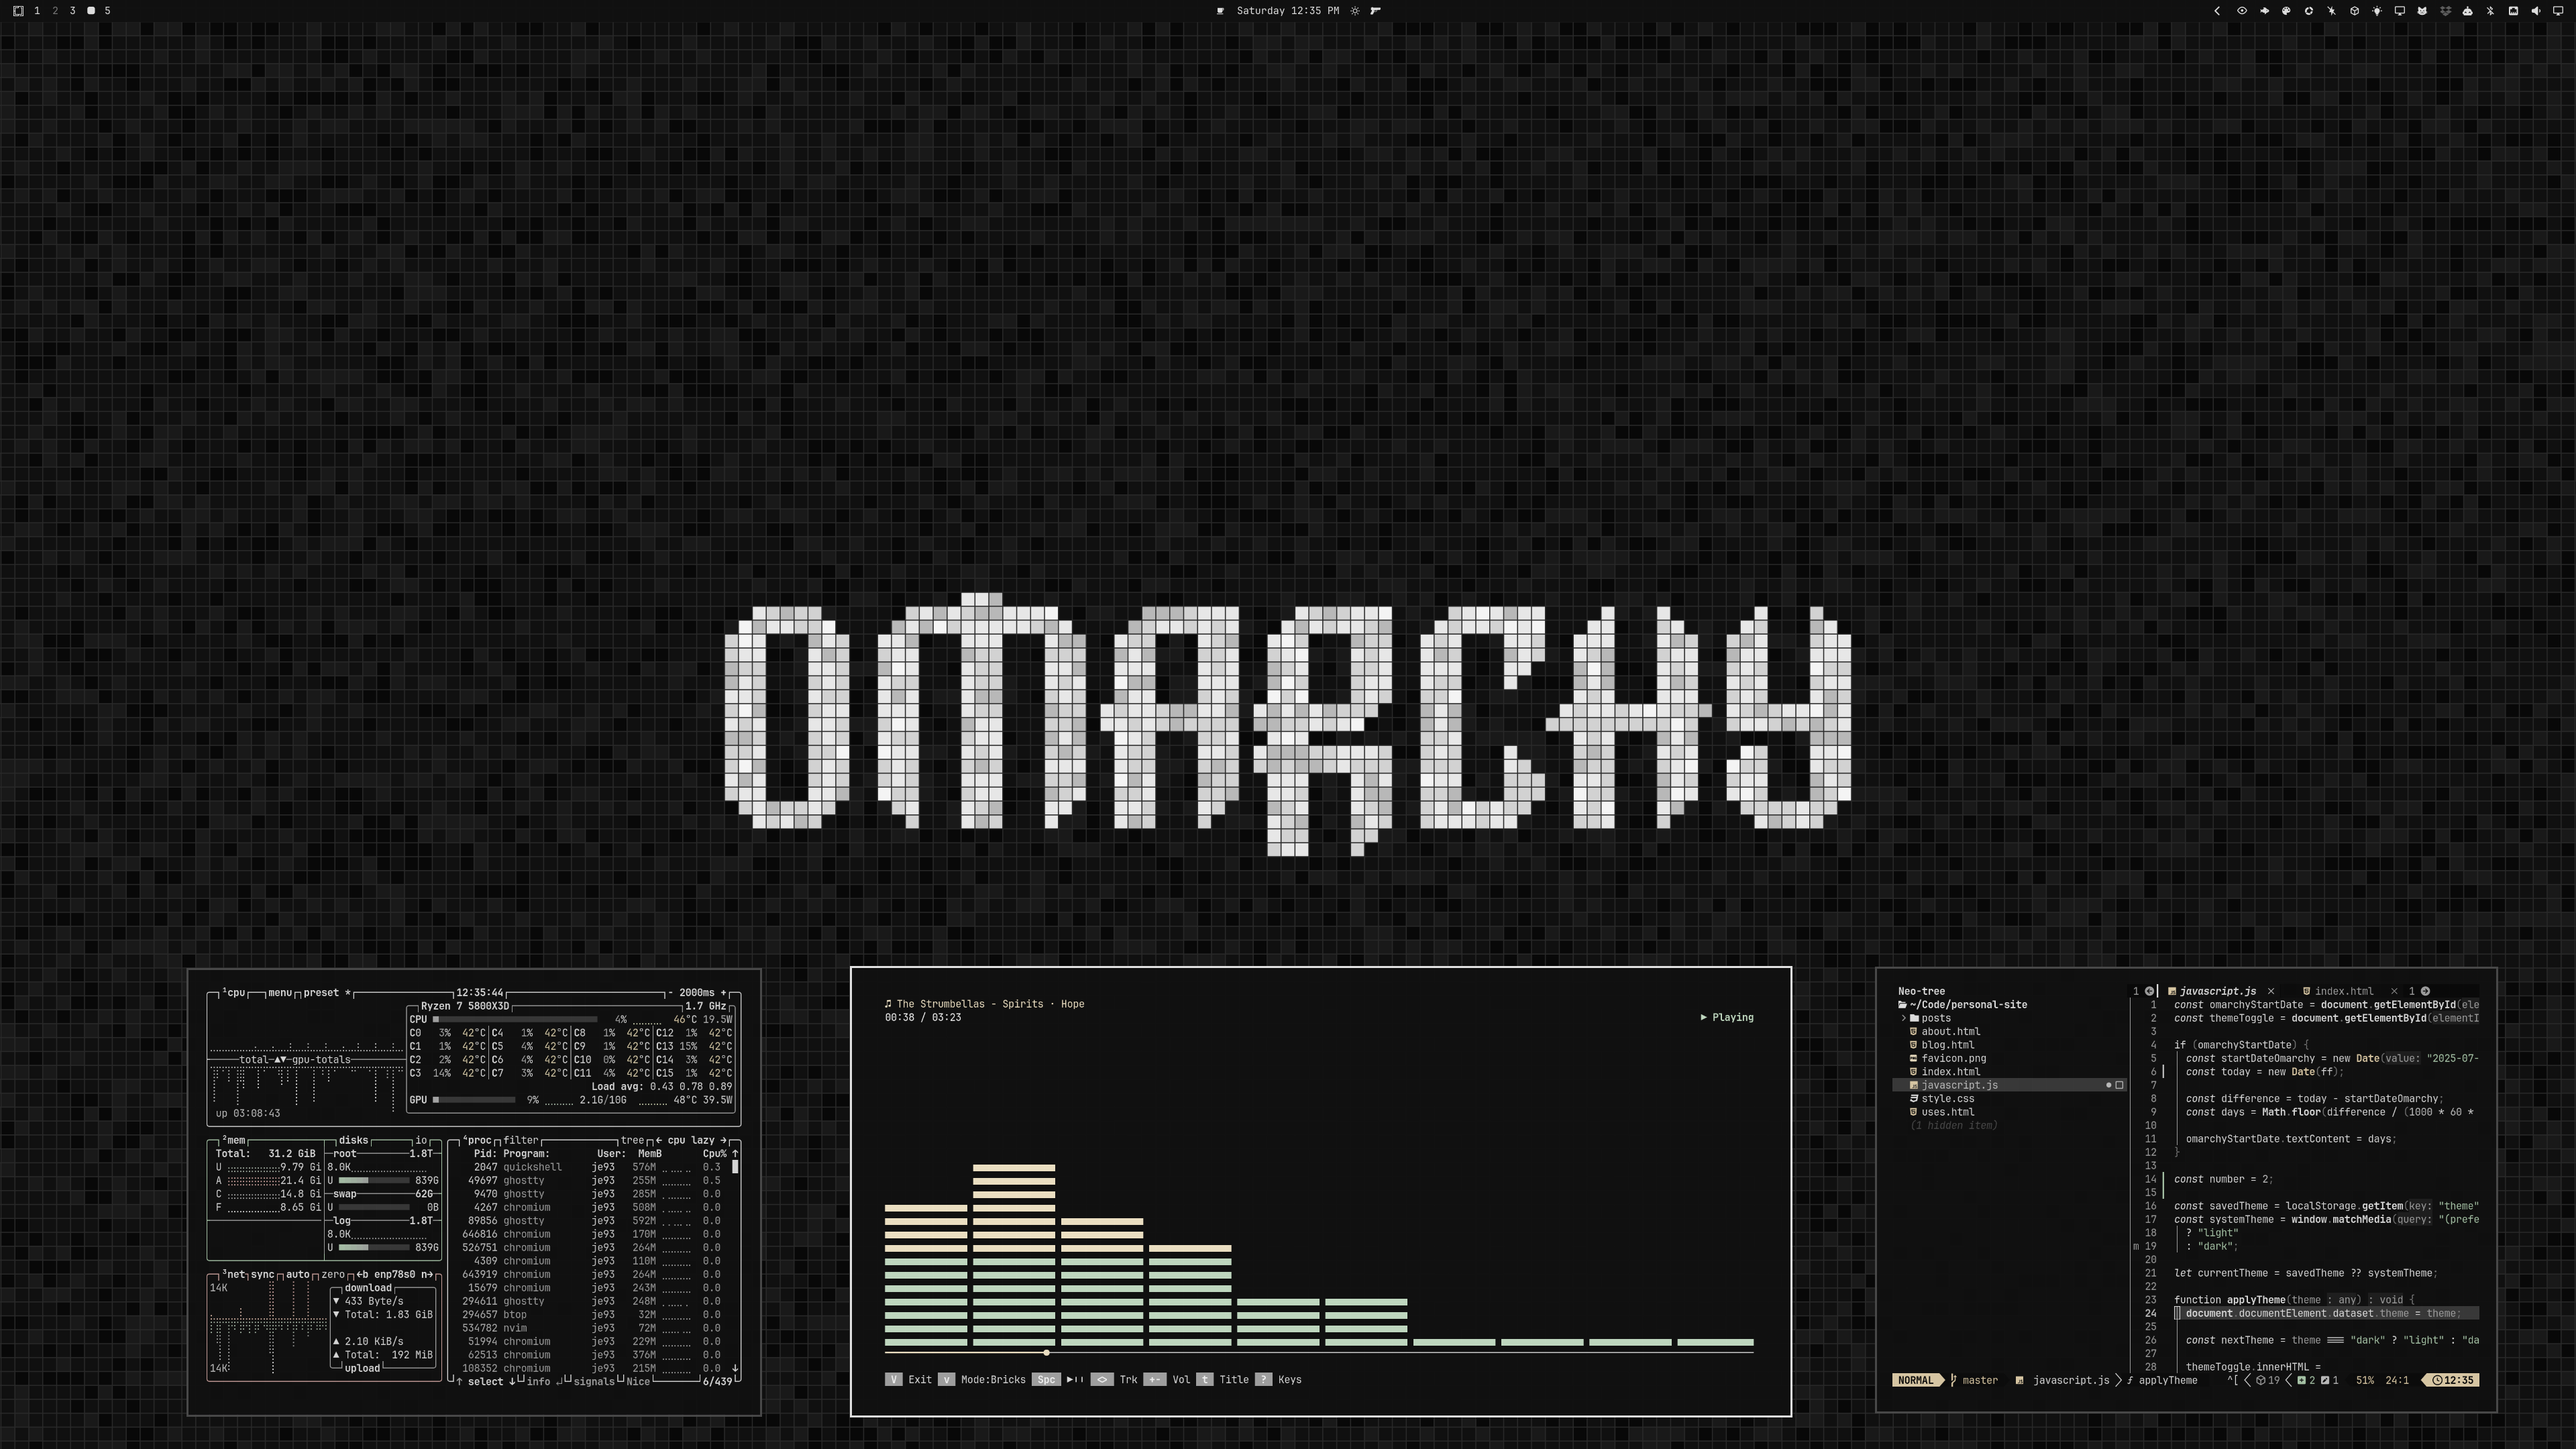
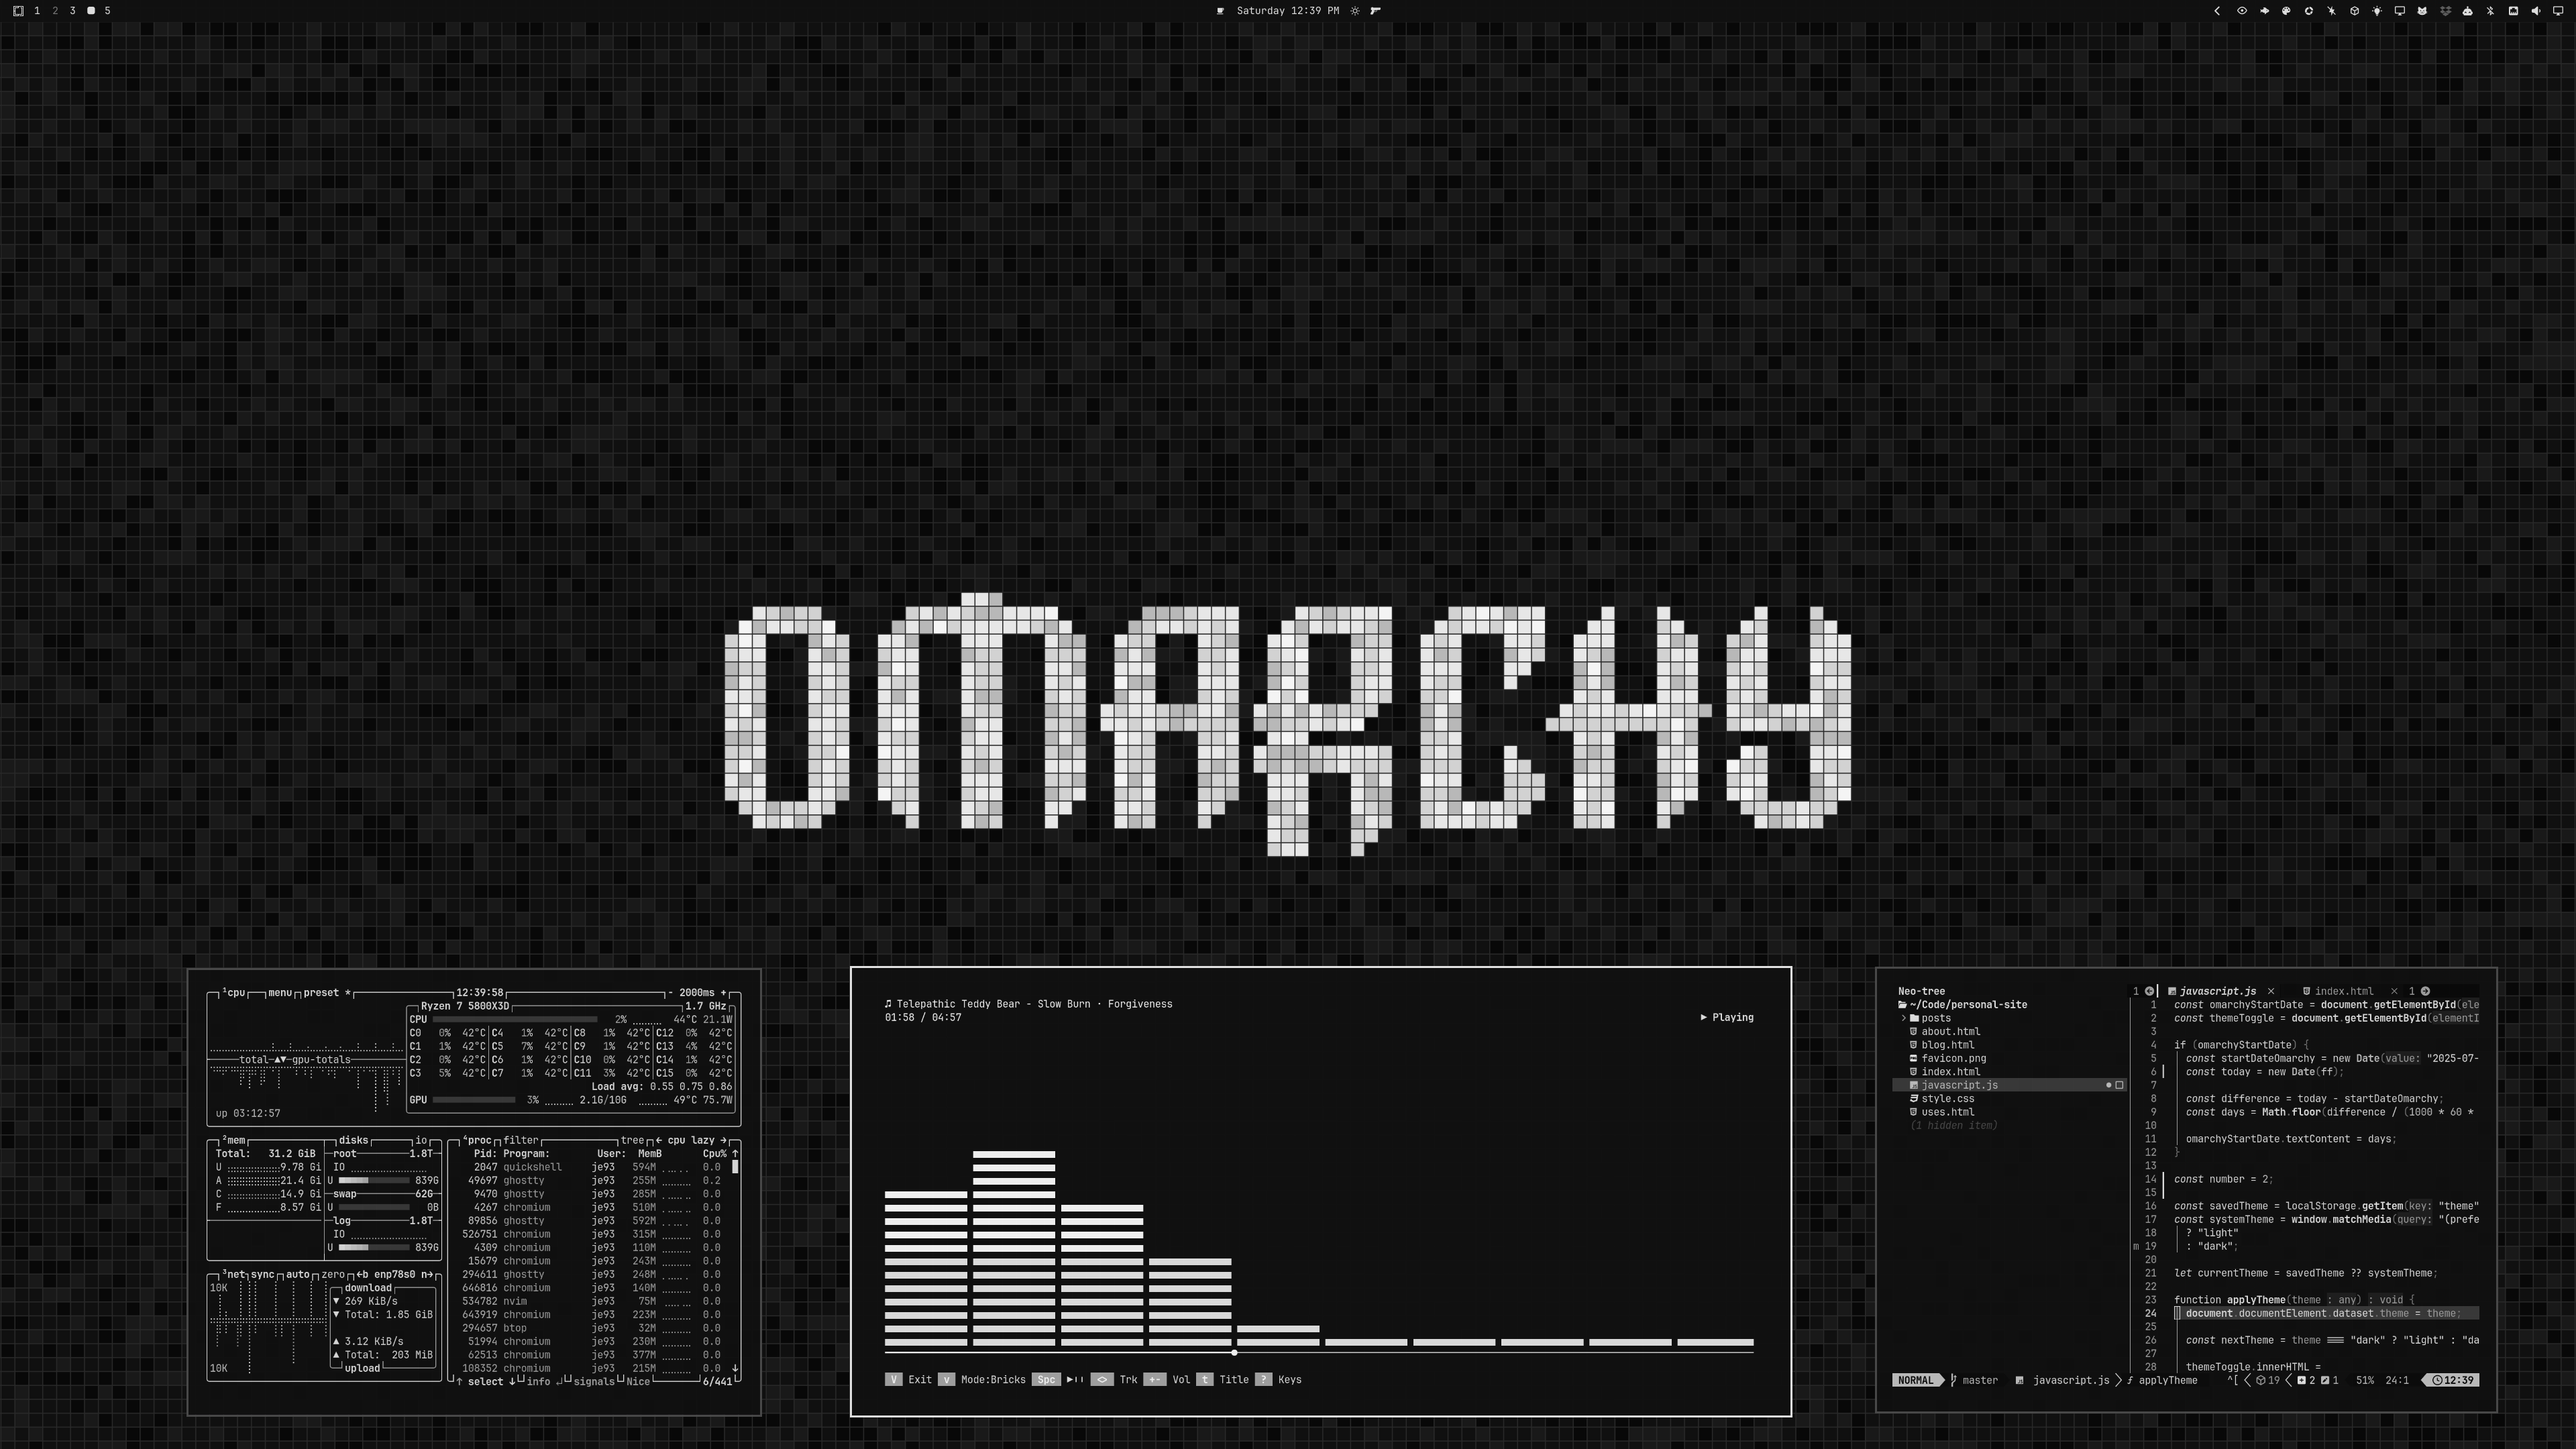
Keep the tonal terminal colours
Go back to the theme's own tonal terminal palette, which keeps cliamp
and other terminal apps in one family of colours, and show a single
desktop preview with the wordmark wallpaper.

diff --git a/README.md b/README.md
@@ -4,8 +4,6 @@ Charcoal-black mosaic tiles, soft white motifs, and grayscale interface accents.
 
 ![Black White Mosaic — desktop preview with the wordmark wallpaper](preview.png)
 
-![Black White Mosaic — desktop preview with the logo wallpaper](preview-logo.png)
-
 ## Install
 
 For **Omarchy 4 with Omarchy Shell**:
